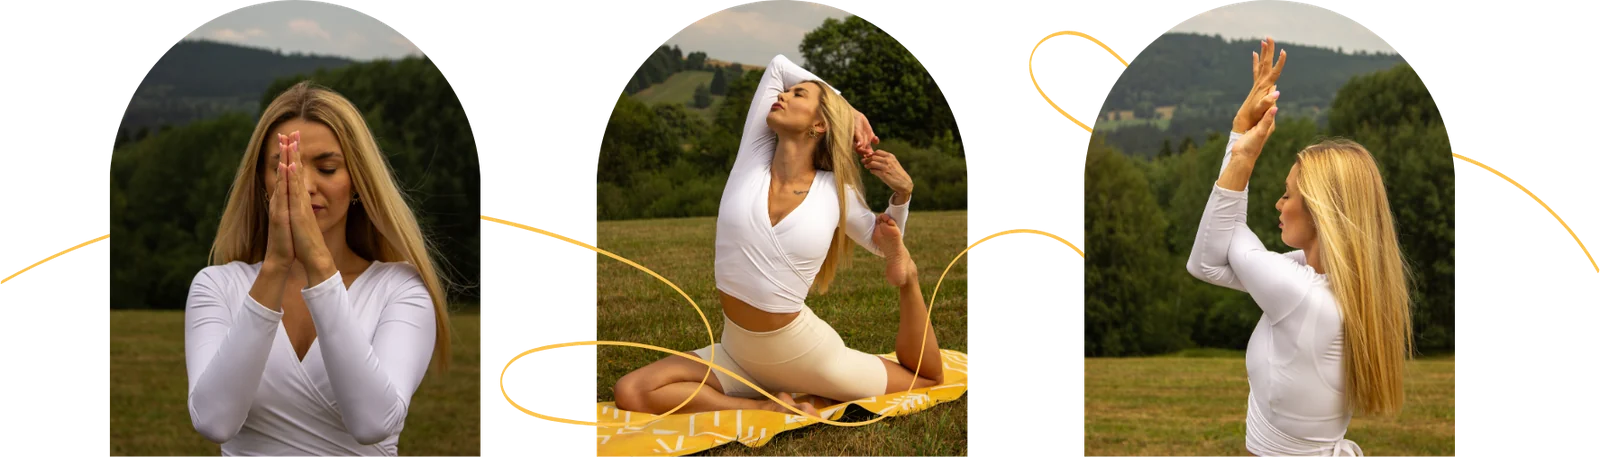
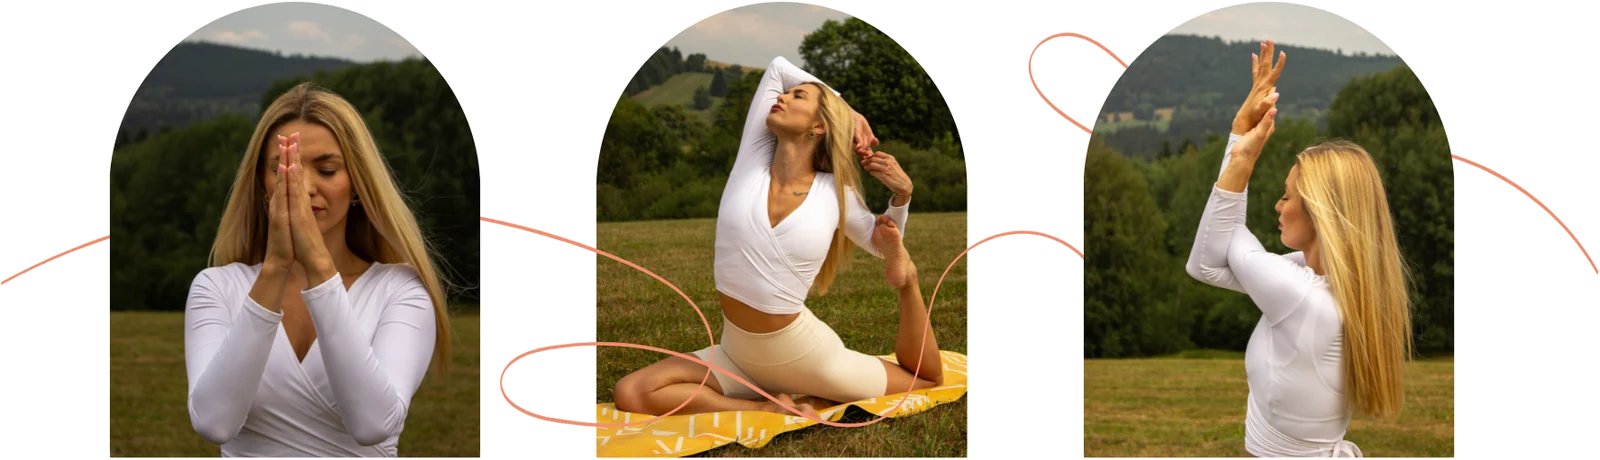
Vyměnit fotky na stránce Lekce a roztáhnout text u První lekce
Úvodní fotka je nová (potkejmesenapodlozce.jpg). Je na výšku 3456×5184
a 11,7 MB, což je na web moc — zmenšeno na 1400×2100 a do WebP (194 kB).
Úvodní pruh byl na širokou fotku nízký, takže z portrétu zbýval jen pás;
sekce je proto vyšší a výřez posunutý na obličej.

Pás pod textem První lekce je nahrazený novou verzí s korálovou linkou
místo zlaté. Bílé pozadí neměla odstraněné a samotné zaplavení od okrajů
nestačilo — bílá zůstávala uvnitř smyček linky. Oblouky jsem proto našel
tak, že jsem tenkou linku odleptal, čímž se rozpojily, a bílou nechal jen
uvnitř jejich skutečného tvaru (ne opsaného obdélníku, ten dělal bílé
rohy nad oblouky). Oblečení uvnitř fotek tím zůstalo bílé.

Text pod nadpisem První lekce už není zúžený a drží šířku pásu fotek
i rámečků výše.

Claude-Session: https://claude.ai/code/session_01S6UAgFvmtPVymEr2fesuqJ

diff --git a/src/app/lekce/page.tsx b/src/app/lekce/page.tsx
@@ -135,7 +135,7 @@ export default async function LekcePage() {
         {/* ── Úvod: fotka jako pozadí celé sekce, text leží na ní ──
             Stejné řešení jako na stránce O mně: fotka drží pravou polovinu
             a do textu se vytrácí dlouhou maskou, ne překryvem. */}
-        <section className="relative overflow-hidden md:min-h-[max(520px,36vw)]">
+        <section className="relative overflow-hidden md:min-h-[max(640px,46vw)]">
           <div className="absolute bottom-0 right-0 top-24 hidden w-[51%] md:block">
             <div
               className="absolute inset-0"
@@ -150,11 +150,11 @@ export default async function LekcePage() {
                   prvek se podle šířky okna liší. fetchPriority ji upřednostní
                   až ve chvíli, kdy ji prohlížeč opravdu vykresluje. */}
               <Image
-                src="/lekce.jpeg"
-                alt="Anežka na lekci jógy"
+                src="/potkejme-se-na-podlozce.webp"
+                alt="Anežka se srolovanou podložkou v lese"
                 fill
                 className="object-cover"
-                style={{ objectPosition: "center 30%" }}
+                style={{ objectPosition: "center 28%" }}
                 sizes="51vw"
                 fetchPriority="high"
               />
@@ -196,11 +196,11 @@ export default async function LekcePage() {
           {/* Telefon: fotka přes celou šířku pod textem, ostrá po všech hranách */}
           <div className="relative h-[92vw] min-h-[340px] w-full overflow-hidden md:hidden">
             <Image
-              src="/lekce.jpeg"
-              alt="Anežka na lekci jógy"
+              src="/potkejme-se-na-podlozce.webp"
+              alt="Anežka se srolovanou podložkou v lese"
               fill
               className="object-cover"
-              style={{ objectPosition: "center 30%" }}
+              style={{ objectPosition: "center 28%" }}
               sizes="100vw"
             />
           </div>
@@ -340,7 +340,7 @@ export default async function LekcePage() {
                 <h2 className="font-allura text-3xl leading-tight text-ink sm:text-4xl">
                   {nbsp("První lekce?")}
                 </h2>
-                <div className="mx-auto mt-4 flex max-w-xl flex-col gap-3 text-sm leading-relaxed text-muted">
+                <div className="mx-auto mt-4 flex flex-col gap-3 text-sm leading-relaxed text-muted">
                   <p>
                     {nbsp("Pokud jdeš na jógu poprvé, nemusíš mít žádné obavy. Vše ti ráda vysvětlím a provedu tě lekcí krok za krokem.")}
                   </p>
